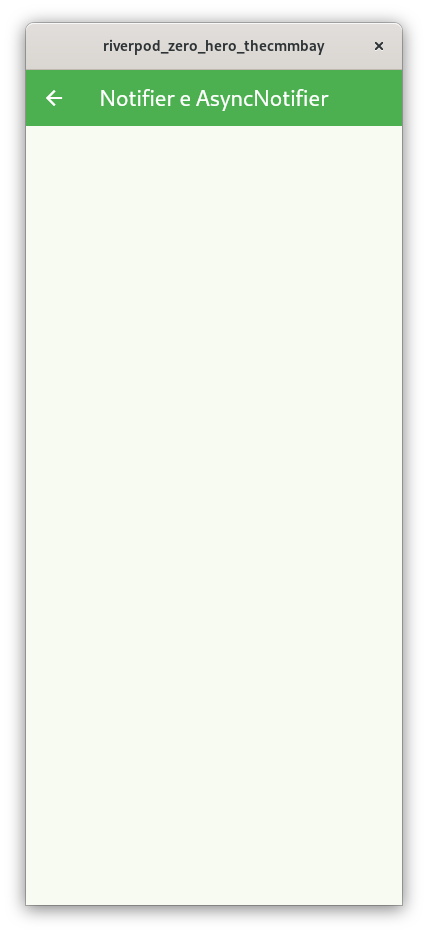
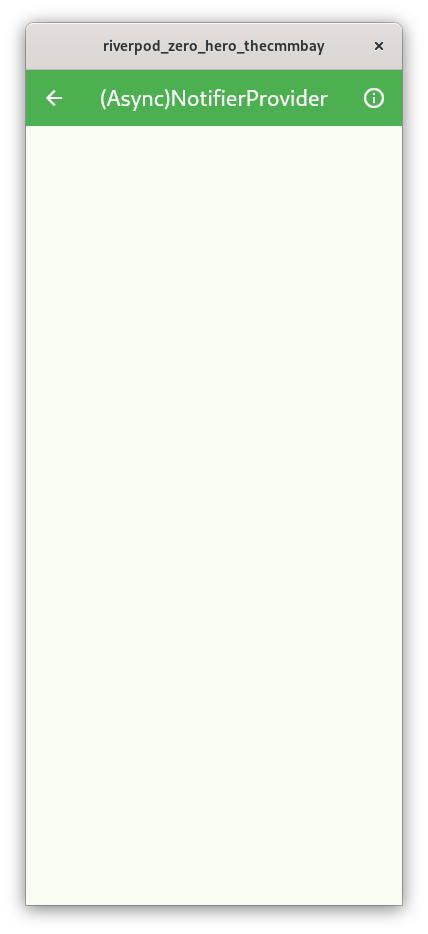
docs: Add info and update screenshots

Changed region(s): [[0.243, 0.0931, 0.7593, 0.1242], [0.8505, 0.0931, 0.9112, 0.1242]]

diff --git a/README.md b/README.md
@@ -4,7 +4,7 @@
 
 Questo repository contiene il codice dell'applicazione demo che ho realizzato per il talk [Flutter Riverpod: gestione dello Stato da Zero a Hero](https://thecmmbay.com/eventi/flutter-riverpod-gestione-dello-stato-da-zero-a-hero-ko7mkrjyw) per [The Communities Bay](https://thecmmbay.com/).
 
-### Sommario
+## Sommario
 
 Sei uno sviluppatore interessato a Flutter e vuoi imparare a gestire lo stato delle tue applicazioni in modo efficiente? Allora non perdere il nostro entusiasmante evento dedicato al framework Flutter Riverpod!
 
@@ -22,9 +22,28 @@ In dettaglio, vedremo:
 
 *Questo evento non è affiliato, sponsorizzato o approvato da Google LLC. "Flutter" e "Dart" sono marchi registrati di Google LLC. I contenuti di questo evento sono puramente informativi ed educativi e non implicano alcuna associazione con le aziende menzionate.*
 
-### 📱 Screenshots
+## Provider
+
+Durante la presentazione mi sono occupato dei seguenti provider:
+
+* [StateProvider](https://riverpod.dev/docs/providers/state_provider)
+* [(Async)NotifierProvider](https://riverpod.dev/docs/providers/notifier_provider)
+
+## 📱 Screenshots
 
 | Homepage #1 | StateProvider #2 | Notifier #3 |
 |-|-|-|
-| <img width=200 src="screenshot/homepage.png"> | <img width=200 src="screenshot/state_provider_page.png"> | <img width=200 src="screenshot/notifier_page.png"> |
+| <img src="screenshot/homepage.png"> | <img src="screenshot/state_provider_page.png"> | <img src="screenshot/notifier_page.png"> |
 
+
+## 💎 Contribuire
+
+Se avete qualche idea, sentitevi liberi di creare un fork e di inviarmi le vostre modifiche.
+
+<img alt="Fork and contribute" src="https://img.shields.io/badge/Ask%20me-anything-1abc9c.svg" />
+
+## 📋 Licenza
+
+Finanza personale è rilasciato con [licenza MIT](LICENSE.md). È possibile utilizzare il codice per qualsiasi scopo, compresi i progetti commerciali.
+
+[![license](https://img.shields.io/badge/License-MIT-yellow.svg)](https://opensource.org/licenses/MIT)
